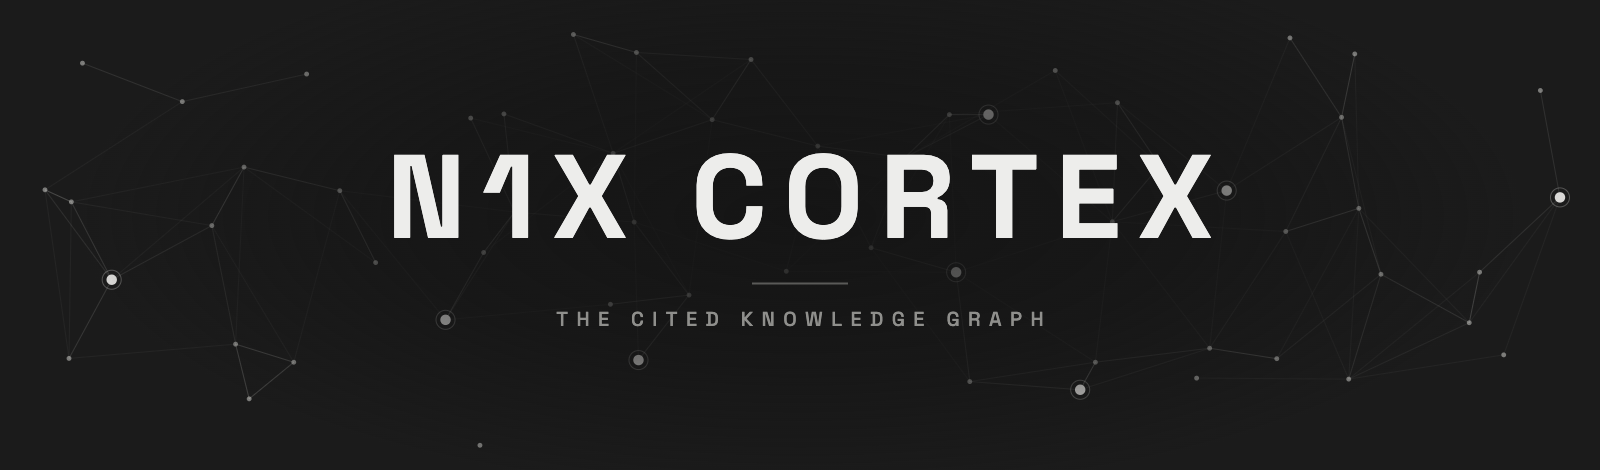
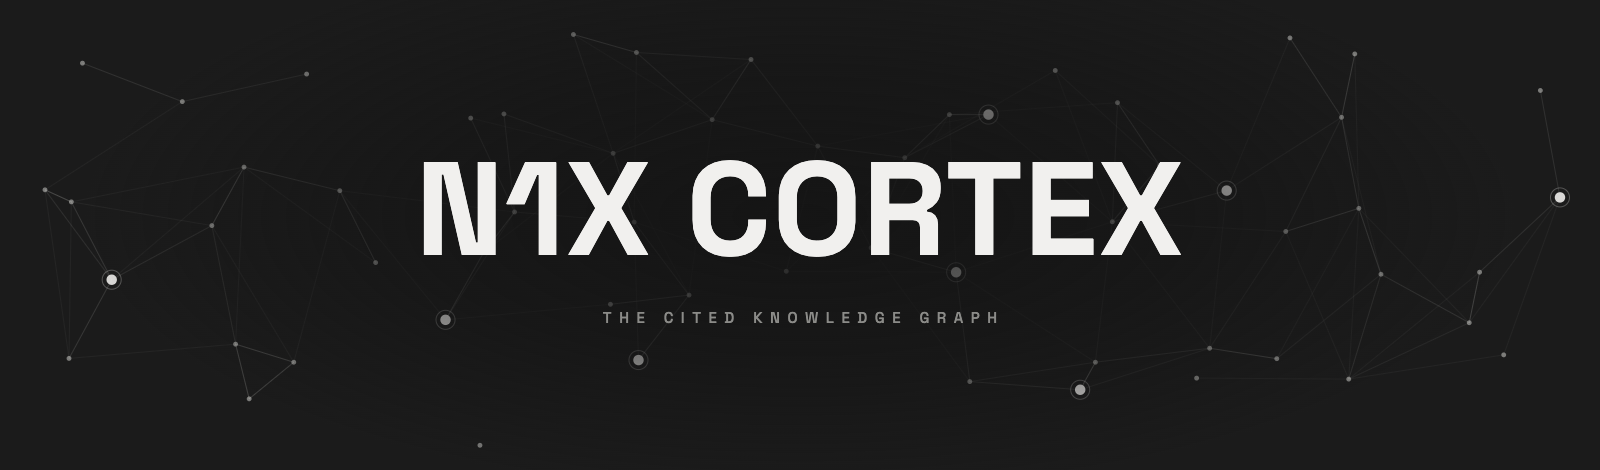
docs: premium hero (tight wordmark) + metric & flow graphics, drop Obsidian (#76)
- Hero: retighten the wordmark (the wide letter-spacing read as cheap) — same
  Space Grotesk, single line, tighter tracking, over the knowledge-graph
  constellation (docs/assets/hero.png).
- README (EN/ES): embed two branded graphics — a 'what it does' 3-step flow and
  a metrics board (159x less context; fabrication 25-63% -> 0-13%; 100% cited)
  so the value is visual, not just prose.
- Positioning: drop the 'Obsidian' mention and the 'opaque RAG' comparison —
  Cortex stands on its own, not compared to other tools. Also removed the
  'obsidian' npm keyword. (Technical code comments referencing Obsidian's \|
  markdown-escaping convention are left as-is: they explain real behavior.)

Changed region(s): [[0.2188, 0.3277, 0.7812, 0.566], [0.3438, 0.6553, 0.6562, 0.7149], [0.4688, 0.5957, 0.5312, 0.6255]]

diff --git a/README.es.md b/README.es.md
@@ -27,16 +27,20 @@ npm i -g @n1x-technologies/cortex
 
 ## Qué es
 
-La mayor parte del conocimiento vive disperso en markdown — vaults de Obsidian, documentación, wikis — o en ningún documento, solo en un repositorio de código. Los humanos pueden leerlo; **los agentes de IA no pueden confiar en él** (sin estructura, sin procedencia). Cortex resuelve eso: lee cualquier vault de markdown, o un repositorio entero sin documentar, y lo convierte en un **grafo de notas citado**, para que tanto una persona como un agente sepan *de dónde viene cada respuesta*.
+La mayor parte del conocimiento vive disperso en archivos markdown — notas, documentación, wikis — o en ningún documento, solo en un repositorio de código. Los humanos pueden leerlo; **los agentes de IA no pueden confiar en él** (sin estructura, sin procedencia). Cortex resuelve eso: lee cualquier vault de markdown, o un repositorio entero sin documentar, y lo convierte en un **grafo de notas citado**, para que tanto una persona como un agente sepan *de dónde viene cada respuesta*.
 
 - 🧩 **Atómico y conectado** — las notas forman un grafo de notas enlazadas y tipadas (wikilinks, frontmatter).
-- 📌 **Citado por diseño** — cada respuesta apunta a sus notas fuente. La procedencia es lo que distingue a Cortex de un RAG opaco.
+- 📌 **Citado por diseño** — cada respuesta apunta a sus notas fuente, así siempre sabes de dónde salió.
 - 🔒 **Local-first y privado** — corre en tu máquina, sobre tus archivos. Nada sale a menos que tú lo decidas.
 - 🤖 **Nativo para agentes (MCP)** — incluye un servidor MCP, para que cualquier agente pueda consultar y escribir de vuelta en tu vault como herramienta.
+
+<p align="center"><img src="docs/assets/flow.png" alt="Qué hace Cortex en tres pasos: tus notas o un repo → Cortex arma un grafo citado → tú y tus agentes preguntan y reciben respuestas citadas" width="100%"></p>
 
 ## Por qué es más barato — y por qué deja de inventar
 
 Imagina que tu base de conocimiento son **300 páginas**. Para responder una pregunta, la mayoría de los setups le pasan a la IA *las 300 páginas* y cruzan los dedos. Cortex le pasa **el único párrafo citado** que de verdad responde.
+
+<p align="center"><img src="docs/assets/metrics.png" alt="Cortex manda ~1.340 tokens de contexto citado en vez de 213.409 (159× menos), y con notas citadas el modelo inventa mucho menos — 100% citado, local, reversible" width="100%"></p>
 
 - **~159× menos para leer por pregunta.** Sobre una base real de 213.000 tokens, "leerlo todo" cuesta ~213.000 tokens por pregunta; la respuesta citada de Cortex cuesta **~1.340** — un **99,4% menos**. Más rápido, y mucho más barato.
 - **Deja de inventar.** Preguntado por hechos que no podía saber, un modelo dio respuestas seguras-pero-incorrectas el **25–63%** de las veces. Con las notas citadas de Cortex, eso cayó al **0–13%** — respondió bien, o dijo *"no sé"*, en vez de adivinar.

diff --git a/README.md b/README.md
@@ -25,16 +25,20 @@ npm i -g @n1x-technologies/cortex
 
 ## What it is
 
-Most knowledge lives in scattered markdown — Obsidian vaults, docs, wikis — or in no docs at all, just a codebase. Humans can read it; **AI agents can't trust it** (no structure, no provenance). Cortex fixes that: it reads any markdown vault, or an entire undocumented repo, into a **cited note graph**, so a person and an agent both know *where every answer came from*.
+Most knowledge lives in scattered markdown files — notes, docs, wikis — or in no docs at all, just a codebase. Humans can read it; **AI agents can't trust it** (no structure, no provenance). Cortex fixes that: it reads any markdown vault, or an entire undocumented repo, into a **cited note graph**, so a person and an agent both know *where every answer came from*.
 
 - 🧩 **Atomic & connected** — notes become a graph of linked, typed notes (wikilinks, frontmatter).
-- 📌 **Cited by design** — every answer points back to its source notes. Provenance is what separates Cortex from an opaque RAG.
+- 📌 **Cited by design** — every answer points back to its source notes, so you always know where it came from.
 - 🔒 **Local-first & private** — runs on your machine, on your files. Nothing leaves unless you say so.
 - 🤖 **Agent-native (MCP)** — ships an MCP server, so any agent can query and write back to your vault as a tool.
+
+<p align="center"><img src="docs/assets/flow.png" alt="What Cortex does in three moves: your notes or a whole repo → Cortex builds a cited graph → you and your agents ask and get cited answers" width="100%"></p>
 
 ## Why it's cheaper — and why it stops guessing
 
 Imagine your knowledge base is **300 pages**. To answer one question, most setups hand the AI *all 300 pages* and hope. Cortex hands it **the one cited paragraph** that actually answers it.
+
+<p align="center"><img src="docs/assets/metrics.png" alt="Cortex sends ~1,340 tokens of cited context instead of 213,409 (159× less), and grounded in cited notes the model fabricates far less — 100% cited, local, reversible" width="100%"></p>
 
 - **~159× less to read per question.** On a real 213,000-token knowledge base, "read everything" costs ~213,000 tokens per question; Cortex's cited answer costs **~1,340** — that's **99.4% less**. Faster, and far cheaper.
 - **It stops making things up.** Asked facts it couldn't know, a model gave confident-but-wrong answers **25–63%** of the time. Given Cortex's cited notes, that dropped to **0–13%** — it answered correctly, or said *"I don't know"*, instead of guessing.